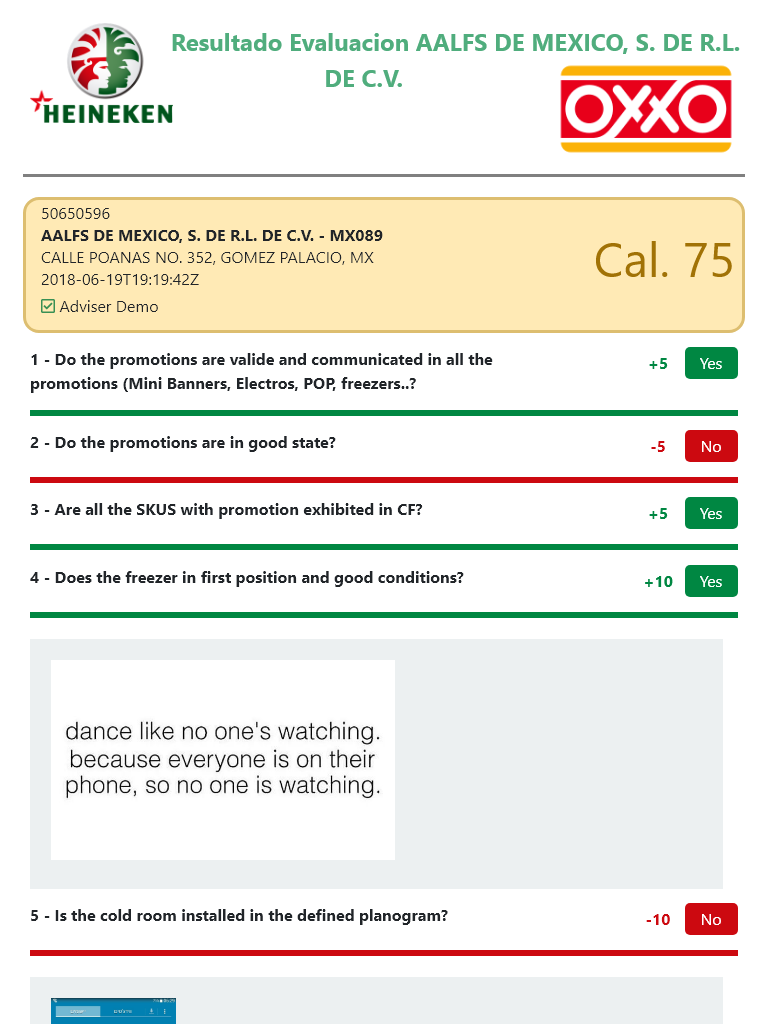
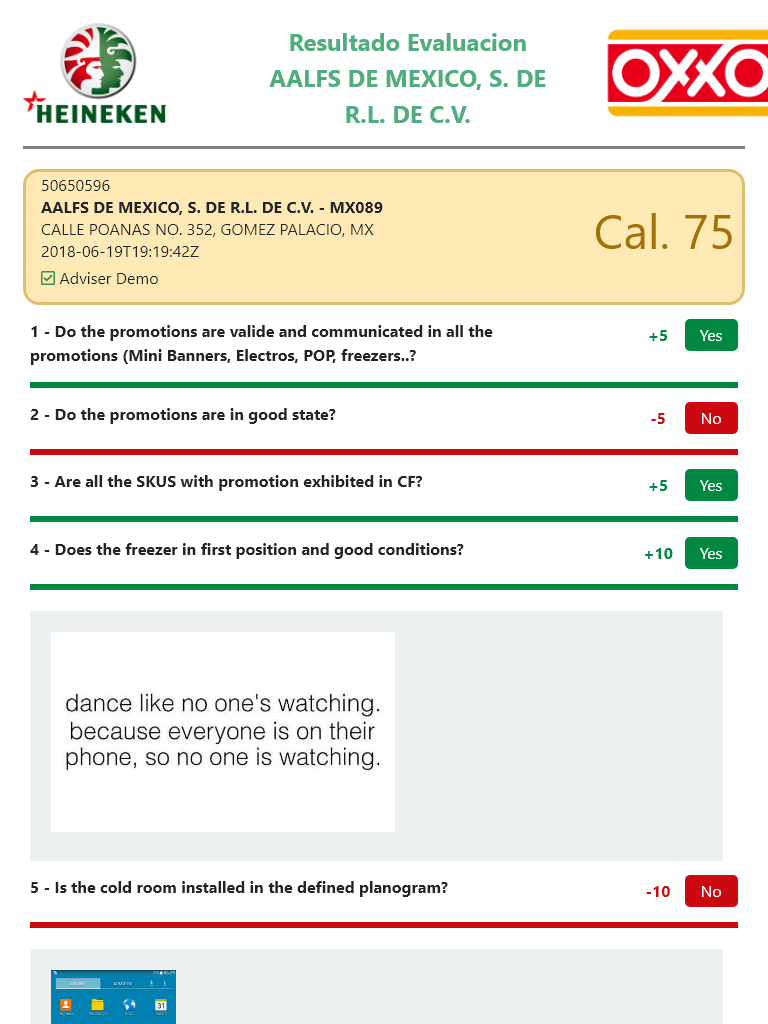
timeout 9 sec instead of 12, signature in a box, account name wont overflow

diff --git a/server/backup.html b/server/backup.html
@@ -1,5 +1,3 @@
-<!DOCTYPE html>
-
 <html>
 
 <head>
@@ -21,21 +19,26 @@
 		width:100%;
 	}
 	.accountLogo{
-		position: relative;
-		top:1%;
-		right:1%;
+		top: 1%;
+		right: 1%;
 		float: right;
+		width: 20%;
 	}
 	.companyLogo{
-		position: relative;
 		top:1%;
 		left:1%;
 		float: left;
 	}
 	.title{
-		margin: 0px auto;
-		font-size: 1.5em;
-		color: rgb(80,173,125);
+    margin: 0px auto;
+    font-size: 1.5em;
+    color: rgb(80,173,125);
+    width: 43%;
+    display: block;
+    word-wrap: break-word;
+    float: left;
+    position: relative;
+    left: 12%;
 	}
 	.accountImage{
 		height:100px;
@@ -136,6 +139,22 @@
 		height:200px; 
 		margin:3%;
 	}
+	.signature{
+		margin-top:4%;
+		margin-bottom: 4%;
+		margin: 0px auto;
+		border-radius: 25px;
+		border:solid 3px;
+		border-color: darkgreen;
+		width:50%;
+		background-color:rgb(236,240,241); 
+	}
+	.agentSignature{
+		width:200px;
+		height:200px; 
+		object-fit: contain;
+		margin:3%;
+	}
 	</style>
 </head>
 
@@ -150,11 +169,11 @@
 		
 		</div> 
 		
-		<span class="title">
+		<div class="title">
 			<strong>
 				Resultado Evaluacion <span id="AccountName"> {AccountName} </span>
 			</strong>
-		</span> 
+		</div> 
 		
 		<div class="accountLogo">
 			
@@ -181,6 +200,8 @@
 </div>
 <div id="signature-box" style="width:100%;float:left;text-align: center;margin-top:2%">
 
+</div>
+<div class="line-splitter">
 </div>
 <script>
 
@@ -239,7 +260,17 @@
 		document.getElementById('ActionDateTime').innerHTML=PDFObject.ActionDateTime;
 		document.getElementById('AgentName').innerHTML=PDFObject.AgentName;
 		document.getElementById('points').innerHTML=points;
-		document.getElementById('signature-box').innerHTML=	`<strong>Signature:</strong> <img src="${PDFObject.TSAAgentSign}" height="250">`;
+		//!----------------------!-Signature-!--------------------!//
+		if (PDFObject.TSAAgentSign){
+			document.getElementById('signature-box').innerHTML=	
+			`<div class="signature"> 
+				<ul style="display: flex;list-style-type: none;padding-right: 20px;">
+				<li style="margin: auto 0px;"><strong style="color:rgba(25,35,45,0.7)">Signature:</strong></li>
+				<li style="margin: auto 0px;"><img src="${PDFObject.TSAAgentSign}" class="agentSignature"> </li>
+				</ul
+			</div>`;
+		}
+			//!----------------------!-END-MAIN-!--------------------!//
 	//!----------------------!-END-MAIN-!--------------------!//
 }
 

diff --git a/server/server.js b/server/server.js
@@ -24,7 +24,7 @@ app.get('/PDF/:ActivityID',authenticate,(request,response) => {
         result = res;
         setTimeout(() => {
             response.sendFile(result.newPDFFilePath); 
-        },12000);
+        },9000);
     }).catch(e=>{
         console.log("error creating PDF:",e,"Sending 404.html");
         response.sendFile(publicPath+'/404.html');
